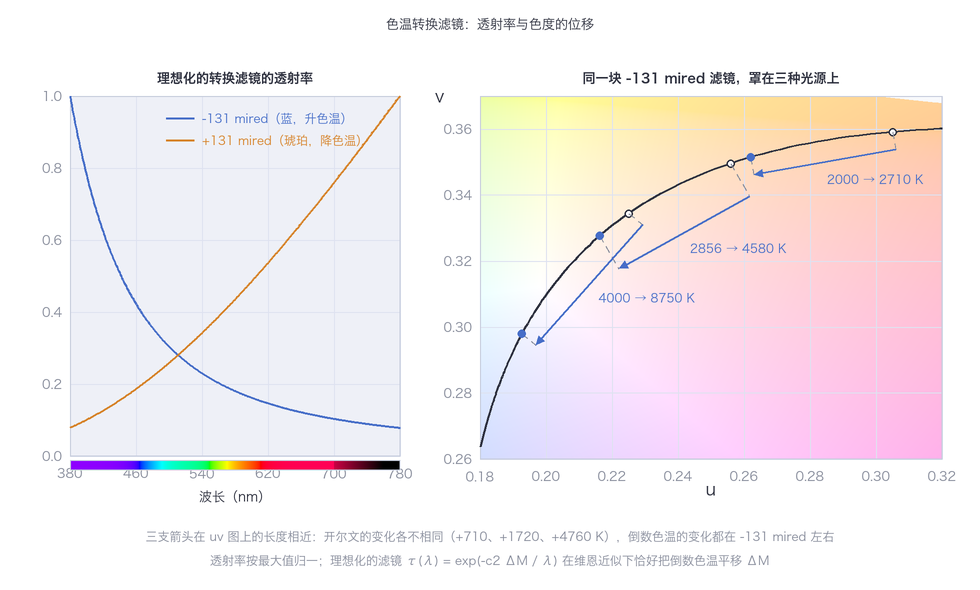
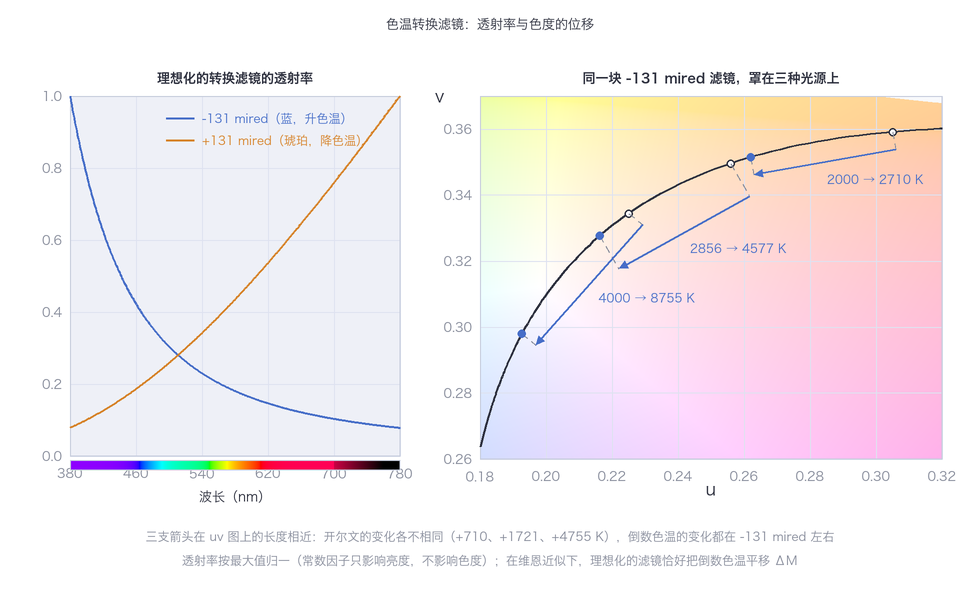
[fix] 《倒数色温》按对抗审稿修订：Priest 原意、Robertson 误差、插图等
事实性错误：
- Priest 原文称均匀性 "merely empiric"，提维恩、普朗克公式是为说明取倒数
  便于计算；第二节改为本文自己的解释，原委移入注释
- Robertson 法在开尔文上插值的最大误差为 118 K（原作 116 K）；
  --check 的扫描范围改为正文所说的 2000～10000 K
- 理想滤镜写成正比式，并注明平移后的倒数色温须大于 0
- conversion-filter.png：图注与表格一致（+4755 K），去掉与正文不一致的公式
- spectral-tilt.png：clipped_polyline 的虚线按相位跨段累计，曲线不再画成实线

表述：
- 补充 uv 与 xy 图上距离的差别，接到第三节的辨别实验
- Judd 的实验条件移入注释；「勉强可辨」的含义说清；交代 T_cp
- 小结最后一条分别写明滤镜与 Robertson 法所依据的性质
- 注明 GB/T 2900.65-2004 已被 2023 年版代替

Changed region(s): [[0.1837, 0.9153, 0.8265, 0.9763], [0.7653, 0.3966, 0.7959, 0.4271]]

diff --git a/tools/generate_reciprocal_color_temperature_figures.py b/tools/generate_reciprocal_color_temperature_figures.py
@@ -278,13 +278,13 @@ def fig_filter(out):
         arrow(d, a0, a1, fill=BLUE, width=2, head=9)
         ellipse(d, (p1[0] - 4, p1[1] - 4, p1[0] + 4, p1[1] + 4), fill=BLUE)
         mx, my = (a0[0] + a1[0]) / 2 - nx * 12, (a0[1] + a1[1]) / 2 - ny * 12
-        text(d, (mx, my), "%d → %d K" % (T, round(T2, -1)), fs, fill=BLUE, anchor="lt")
+        text(d, (mx, my), "%d → %d K" % (T, round(T2)), fs, fill=BLUE, anchor="lt")
     text(d, ((box[0] + box[2]) / 2, 489), "u", ifont(17))
     text(d, (box[0] - 40, box[1]), "v", ifont(17))
     text(d, (W / 2, 24), "色温转换滤镜：透射率与色度的位移", fx)
-    text(d, (W / 2, 536), "三支箭头在 uv 图上的长度相近：开尔文的变化各不相同（+710、+1720、+4760 K），倒数色温的变化都在 -131 mired 左右",
+    text(d, (W / 2, 536), "三支箭头在 uv 图上的长度相近：开尔文的变化各不相同（+710、+1721、+4755 K），倒数色温的变化都在 -131 mired 左右",
          fs, fill=MUTED)
-    text(d, (W / 2, 560), "透射率按最大值归一；理想化的滤镜 τ(λ) = exp(-c₂ ΔM / λ) 在维恩近似下恰好把倒数色温平移 ΔM".replace("₂", "2"),
+    text(d, (W / 2, 560), "透射率按最大值归一（常数因子只影响亮度，不影响色度）；在维恩近似下，理想化的滤镜恰好把倒数色温平移 ΔM",
          fs, fill=MUTED)
     finish(im, os.path.join(out, "conversion-filter.png"))
 
@@ -372,7 +372,7 @@ def check():
     table = robertson_table()
     for in_m in (True, False):
         worst = (0, None)
-        for T in np.exp(np.linspace(math.log(1700), math.log(25000), 60)):
+        for T in np.exp(np.linspace(math.log(2000), math.log(10000), 200)):
             u0, v0 = bb_uv(T)
             nx, ny = isotherm_normal(T)
             for duv in (-0.02, -0.01, 0, 0.01, 0.02):

diff --git a/tools/generate_color_temperature_figures.py b/tools/generate_color_temperature_figures.py
@@ -240,16 +240,32 @@ def clip_segment(p0, p1, xr, yr):
 
 
 def clipped_polyline(d, ax, pts, fill, width, dash=None):
-    """按数据坐标逐段裁剪后再画折线；dash 为 (dash, gap) 时画虚线。"""
+    """按数据坐标逐段裁剪后再画折线；dash 为 (dash, gap) 时画虚线。
+
+    虚实的相位跨段累计：折线由许多短于一个划长的小段组成时，逐段各画一次虚线会全部画成实线。
+    """
+    phase = 0.0
     for a, b in zip(pts[:-1], pts[1:]):
         seg = clip_segment(a, b, ax.xr, ax.yr)
         if seg is None:
             continue
         pa, pb = ax.px(*seg[0]), ax.px(*seg[1])
-        if dash:
-            dashed(d, pa, pb, fill=fill, width=width, dash=dash[0], gap=dash[1])
-        else:
+        if not dash:
             line(d, (pa[0], pa[1], pb[0], pb[1]), fill=fill, width=width)
+            continue
+        on, period = dash[0], dash[0] + dash[1]
+        total = math.hypot(pb[0] - pa[0], pb[1] - pa[1])
+        if total == 0:
+            continue
+        ux, uy = (pb[0] - pa[0]) / total, (pb[1] - pa[1]) / total
+        t = 0.0
+        while t < total:
+            pos = phase % period
+            e = min(t + (on - pos if pos < on else period - pos), total)
+            if pos < on:
+                line(d, (pa[0] + ux * t, pa[1] + uy * t, pa[0] + ux * e, pa[1] + uy * e), fill=fill, width=width)
+            phase += e - t
+            t = e
 
 
 # ==========================================================================
